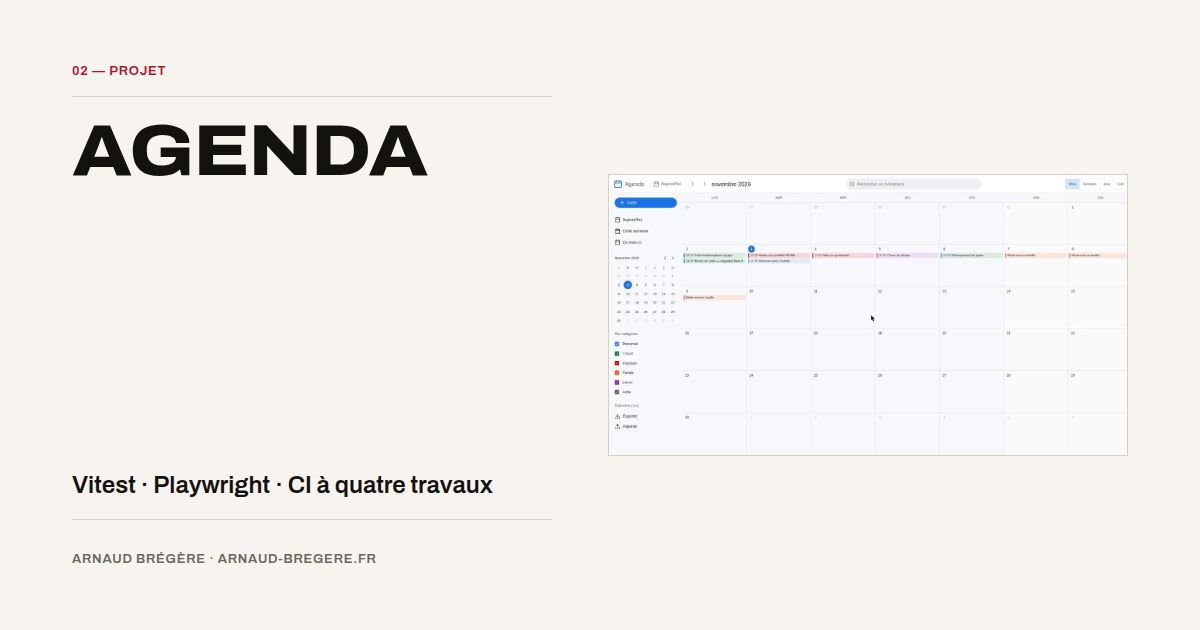
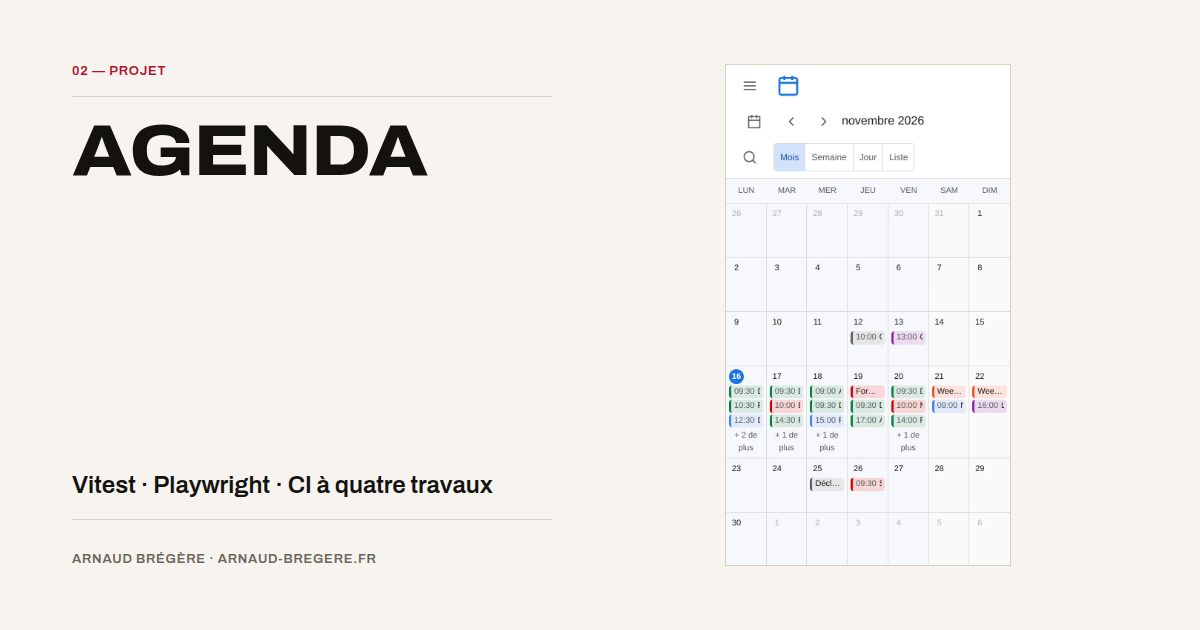
La fiche Agenda passe à la pellicule, sur cinq captures mobiles (#85)
* La fiche Agenda passe à la pellicule, sur six captures mobiles

La fiche annonce « une application Vue 3 à quatre vues — mois, semaine,
jour, liste » et son aperçu n'en montrait que deux, en captures desktop
de 1440 px. Le texte et l'image se contredisaient, et aucune des deux ne
disait quoi que ce soit du rendu sur téléphone — le cas d'usage d'un
agenda.

Six captures mobiles les remplacent, dans la pellicule livrée par
l'issue #82 : les quatre vues, puis ce qui les commande — les filtres de
catégorie du panneau latéral, et la fiche d'un événement en modale.
Aucun code nouveau : même composant, même contrat d'accès.

Les captures viennent de l'application en ligne, à une densité de 2 sur
une fenêtre de 383 × 675. Les 766 × 1350 qui en sortent sont ceux de la
pellicule de Japan Manga Explorer : les deux fiches gardent le même
rythme.

Les données de démonstration ont été créées pour l'occasion — 24
événements sur novembre et décembre 2026, les six catégories, quatre
journées entières, une série récurrente du lundi au vendredi, et des
chevauchements d'horaires le mercredi 18 pour que la vue semaine montre
le placement côte à côte.

`e2e/tests/apercu-pellicule.spec.ts` couvre désormais les deux fiches :
son commentaire disait que Japan Manga Explorer était la seule à porter
des captures, et cela cesse d'être vrai. La liste des fiches y est
écrite à la main, comme `sitePages` — le paquet `e2e/` n'a aucune
dépendance vers le package principal, et un test qui importerait la
[…]

diff --git a/e2e/tests/apercu-pellicule.spec.ts b/e2e/tests/apercu-pellicule.spec.ts
@@ -1,4 +1,4 @@
-import { expect, test } from '@playwright/test'
+import { expect, test, type Page } from '@playwright/test'
 
 /**
  * La pellicule de la rubrique « Aperçu » d'une fiche projet (issue #82).
@@ -6,112 +6,123 @@ import { expect, test } from '@playwright/test'
  * Ce qui se vérifie ici et nulle part ailleurs : qu'elle **défile vraiment**.
  * Le test unitaire de `tests/unit/projets.spec.ts` tient le balisage, mais
  * `jsdom` ne met rien en page — il rendrait vert un conteneur dont le
- * `overflow-x` aurait disparu, donc dont les quatre captures suivantes
- * seraient inatteignables.
+ * `overflow-x` aurait disparu, donc dont les captures suivantes seraient
+ * inatteignables.
  *
- * La page retenue est la seule à porter des captures aujourd'hui. Si une
- * autre fiche en reçoit, elle hérite du même composant et du même contrat.
+ * Les deux fiches qui portent des captures y passent. La liste est écrite à
+ * la main, comme `sitePages` : le paquet `e2e/` n'a aucune dépendance vers le
+ * package principal, et un test qui importerait la donnée qu'il vérifie ne
+ * vérifierait plus rien. Une fiche qui reçoit des captures rejoint cette
+ * liste.
  */
-const FICHE = '/projets/japan-manga-explorer'
+const FICHES = [
+  { path: '/projets/japan-manga-explorer', titre: 'Japan Manga Explorer' },
+  { path: '/projets/agenda-app-event', titre: 'Agenda' },
+] as const
 
-test.describe('Pellicule des captures', () => {
-  test('déborde de son conteneur, donc elle défile', async ({ page }) => {
-    await page.goto(FICHE)
+const pellicule = (page: Page, titre: string) =>
+  page.getByRole('list', { name: new RegExp(`Captures de ${titre}`) })
 
-    const strip = page.getByRole('list', { name: /Captures de Japan Manga Explorer/ })
+for (const { path, titre } of FICHES) {
+  test.describe(`Pellicule des captures — ${titre}`, () => {
+    test('déborde de son conteneur, donc elle défile', async ({ page }) => {
+      await page.goto(path)
 
-    await expect(strip).toBeVisible()
+      const strip = pellicule(page, titre)
 
-    const { scrollWidth, clientWidth, overflowX } = await strip.evaluate((node) => ({
-      scrollWidth: node.scrollWidth,
-      clientWidth: node.clientWidth,
-      overflowX: getComputedStyle(node).overflowX,
-    }))
+      await expect(strip).toBeVisible()
 
-    expect(overflowX).toBe('auto')
-    expect(scrollWidth).toBeGreaterThan(clientWidth)
+      const { scrollWidth, clientWidth, overflowX } = await strip.evaluate((node) => ({
+        scrollWidth: node.scrollWidth,
+        clientWidth: node.clientWidth,
+        overflowX: getComputedStyle(node).overflowX,
+      }))
+
+      expect(overflowX).toBe('auto')
+      expect(scrollWidth).toBeGreaterThan(clientWidth)
+    })
+
+    test('s’atteint au clavier, et les flèches la font défiler', async ({ page }) => {
+      await page.goto(path)
+
+      const strip = pellicule(page, titre)
+
+      // Le focus par programme vaut le focus par tabulation pour ce qui est
+      // vérifié ici — que le conteneur soit focalisable, et que la touche
+      // agisse. Tabuler depuis le haut de la page traverserait l'en-tête et le
+      // fil de liens, qui ont leurs propres tests.
+      await strip.focus()
+      await expect(strip).toBeFocused()
+
+      const depart = await strip.evaluate((node) => node.scrollLeft)
+
+      await page.keyboard.press('ArrowRight')
+      await page.keyboard.press('ArrowRight')
+      await expect
+        .poll(async () => strip.evaluate((node) => node.scrollLeft))
+        .toBeGreaterThan(depart)
+    })
+
+    /**
+     * Les flèches sont la seule commande d'un visiteur à la souris : sans
+     * elles, il lui reste la barre de défilement. Elles doublent le doigt, la
+     * molette et le clavier, elles ne les remplacent pas.
+     */
+    test('la flèche avant fait défiler, puis s’éteint au bout', async ({ page }) => {
+      await page.goto(path)
+
+      const strip = pellicule(page, titre)
+      const avant = page.getByRole('button', { name: 'Capture suivante' })
+      const arriere = page.getByRole('button', { name: 'Capture précédente' })
+
+      // Au premier rendu, le serveur sert les deux flèches désactivées : le
+      // client mesure la pellicule au montage, et n'allume que l'avant.
+      await expect(arriere).toBeDisabled()
+      await expect(avant).toBeEnabled()
+
+      await avant.click()
+      await expect.poll(async () => strip.evaluate((node) => node.scrollLeft)).toBeGreaterThan(0)
+      await expect(arriere).toBeEnabled()
+
+      // Le bout se rejoint par un défilement, et non par une série de clics :
+      // une flèche qui s'éteint entre le moment où le test la lit et celui où
+      // il la clique ferait échouer le clic, sans que rien ne soit cassé.
+      await strip.evaluate((node) => node.scrollTo({ left: node.scrollWidth, behavior: 'auto' }))
+
+      await expect(avant).toBeDisabled()
+      await expect(arriere).toBeEnabled()
+    })
+
+    test('la flèche arrière ramène au départ', async ({ page }) => {
+      await page.goto(path)
+
+      const strip = pellicule(page, titre)
+      const avant = page.getByRole('button', { name: 'Capture suivante' })
+      const arriere = page.getByRole('button', { name: 'Capture précédente' })
+
+      await avant.click()
+      await expect(arriere).toBeEnabled()
+
+      await arriere.click()
+      await expect.poll(async () => strip.evaluate((node) => node.scrollLeft)).toBeLessThan(2)
+      await expect(arriere).toBeDisabled()
+    })
+
+    test('porte une légende et un texte alternatif par capture', async ({ page }) => {
+      await page.goto(path)
+
+      const strip = pellicule(page, titre)
+      const images = strip.locator('img')
+
+      const total = await images.count()
+
+      expect(total).toBeGreaterThan(1)
+
+      for (let rang = 0; rang < total; rang += 1) {
+        await expect(images.nth(rang)).toHaveAttribute('alt', /.{20,}/)
+      }
+
+      await expect(strip.locator('figcaption')).toHaveCount(total)
+    })
   })
-
-  test('s’atteint au clavier, et les flèches la font défiler', async ({ page }) => {
-    await page.goto(FICHE)
-
-    const strip = page.getByRole('list', { name: /Captures de Japan Manga Explorer/ })
-
-    // Le focus par programme vaut le focus par tabulation pour ce qui est
-    // vérifié ici — que le conteneur soit focalisable, et que la touche
-    // agisse. Tabuler depuis le haut de la page traverserait l'en-tête et le
-    // fil de liens, qui ont leurs propres tests.
-    await strip.focus()
-    await expect(strip).toBeFocused()
-
-    const depart = await strip.evaluate((node) => node.scrollLeft)
-
-    await page.keyboard.press('ArrowRight')
-    await page.keyboard.press('ArrowRight')
-    await expect
-      .poll(async () => strip.evaluate((node) => node.scrollLeft))
-      .toBeGreaterThan(depart)
-  })
-
-  /**
-   * Les flèches sont la seule commande d'un visiteur à la souris : sans
-   * elles, il lui reste la barre de défilement. Elles doublent le doigt, la
-   * molette et le clavier, elles ne les remplacent pas.
-   */
-  test('la flèche avant fait défiler, puis s’éteint au bout', async ({ page }) => {
-    await page.goto(FICHE)
-
-    const strip = page.getByRole('list', { name: /Captures de Japan Manga Explorer/ })
-    const avant = page.getByRole('button', { name: 'Capture suivante' })
-    const arriere = page.getByRole('button', { name: 'Capture précédente' })
-
-    // Au premier rendu, le serveur sert les deux flèches désactivées : le
-    // client mesure la pellicule au montage, et n'allume que l'avant.
-    await expect(arriere).toBeDisabled()
-    await expect(avant).toBeEnabled()
-
-    await avant.click()
-    await expect.poll(async () => strip.evaluate((node) => node.scrollLeft)).toBeGreaterThan(0)
-    await expect(arriere).toBeEnabled()
-
-    // Le bout se rejoint par un défilement, et non par une série de clics :
-    // une flèche qui s'éteint entre le moment où le test la lit et celui où
-    // il la clique ferait échouer le clic, sans que rien ne soit cassé.
-    await strip.evaluate((node) => node.scrollTo({ left: node.scrollWidth, behavior: 'auto' }))
-
-    await expect(avant).toBeDisabled()
-    await expect(arriere).toBeEnabled()
-  })
-
-  test('la flèche arrière ramène au départ', async ({ page }) => {
-    await page.goto(FICHE)
-
-    const strip = page.getByRole('list', { name: /Captures de Japan Manga Explorer/ })
-    const avant = page.getByRole('button', { name: 'Capture suivante' })
-    const arriere = page.getByRole('button', { name: 'Capture précédente' })
-
-    await avant.click()
-    await expect(arriere).toBeEnabled()
-
-    await arriere.click()
-    await expect.poll(async () => strip.evaluate((node) => node.scrollLeft)).toBeLessThan(2)
-    await expect(arriere).toBeDisabled()
-  })
-
-  test('porte une légende et un texte alternatif par capture', async ({ page }) => {
-    await page.goto(FICHE)
-
-    const strip = page.getByRole('list', { name: /Captures de Japan Manga Explorer/ })
-    const images = strip.locator('img')
-
-    const total = await images.count()
-
-    expect(total).toBeGreaterThan(1)
-
-    for (let rang = 0; rang < total; rang += 1) {
-      await expect(images.nth(rang)).toHaveAttribute('alt', /.{20,}/)
-    }
-
-    await expect(strip.locator('figcaption')).toHaveCount(total)
-  })
-})
+}

diff --git a/content/projects.ts b/content/projects.ts
@@ -103,20 +103,61 @@ export const projects: readonly Project[] = [
       { label: 'Application en ligne', url: 'https://agenda-app-event.onrender.com' },
       { label: 'Code source', url: 'https://github.com/arnaudbregere/agenda-app-event' },
     ],
+    /**
+     * Cinq vues sur téléphone, et non deux captures desktop : l'application
+     * est mobile first, et une capture de 1440 px ne dit rien de ce que le
+     * visiteur verra.
+     *
+     * Reprises le 16/11/2026 (issue #84) depuis
+     * `https://agenda-app-event.onrender.com`, à une densité de 2 sur une
+     * fenêtre de 383 × 675 — d'où les 766 × 1350, mêmes dimensions que la
+     * pellicule de Japan Manga Explorer.
+     *
+     * L'ordre va du général au particulier : les vues, puis ce qui les
+     * commande — les filtres de catégorie, et la fiche d'un événement.
+     *
+     * **La vue semaine n'y est pas**, décision d'Arnaud du 16/11/2026, après
+     * l'avoir vue en ligne. Sept colonnes sur 383 px tronquent les titres en
+     * « Da… » et « Re… » : la capture montrait une contrainte plutôt qu'une
+     * fonctionnalité. La vue existe toujours dans l'application, et
+     * `solution` continue de l'annoncer — c'est la capture qui est retirée,
+     * pas la vue.
+     */
     images: [
       {
         src: '/visuels/agenda-app-event/vue-mois.webp',
-        alt: 'Vue mensuelle de novembre 2026, événements colorés par catégorie, panneau latéral avec mini-calendrier et filtres.',
-        caption: 'Vue mois : les catégories filtrent depuis le panneau latéral.',
-        width: 1440,
-        height: 779,
+        alt: 'Vue mois de novembre 2026 sur téléphone : sept colonnes, événements en pastilles colorées par catégorie, et un lien « + 2 de plus » sur les journées chargées.',
+        caption: 'Vue mois : une pastille par événement, la couleur dit la catégorie.',
+        width: 766,
+        height: 1350,
       },
       {
-        src: '/visuels/agenda-app-event/vue-semaine.webp',
-        alt: 'Vue hebdomadaire du 2 au 8 novembre 2026, événements placés sur une grille horaire, journées entières en haut.',
-        caption: 'Vue semaine : grille horaire, journées entières en bandeau.',
-        width: 1440,
-        height: 814,
+        src: '/visuels/agenda-app-event/vue-jour.webp',
+        alt: 'Vue jour du lundi 16 novembre 2026 : cinq événements sur la grille horaire, chacun avec son titre et ses horaires en clair.',
+        caption: 'Vue jour : la colonne unique rend les titres et les horaires lisibles.',
+        width: 766,
+        height: 1350,
+      },
+      {
+        src: '/visuels/agenda-app-event/vue-liste.webp',
+        alt: 'Vue liste de novembre 2026 : les événements groupés par date, horaires à gauche, pastille de catégorie avant chaque titre.',
+        caption: 'Vue liste : les événements groupés par date, sans grille.',
+        width: 766,
+        height: 1350,
+      },
+      {
+        src: '/visuels/agenda-app-event/categories.webp',
+        alt: 'Panneau latéral ouvert : mini-calendrier du mois, les six filtres de catégorie cochés — personnel, travail, important, famille, loisirs, autre — et les liens d’export et d’import de calendrier ICS.',
+        caption: 'Le panneau latéral : filtres de catégorie, export et import ICS.',
+        width: 766,
+        height: 1350,
+      },
+      {
+        src: '/visuels/agenda-app-event/modale-evenement.webp',
+        alt: 'Fiche d’un événement en modale : titre, case « toute la journée », dates et heures de début et de fin, lieu, description, puis les actions supprimer, annuler et enregistrer.',
+        caption: 'La fiche d’un événement : création, modification et suppression au même endroit.',
+        width: 766,
+        height: 1350,
       },
     ],
     featured: true,
